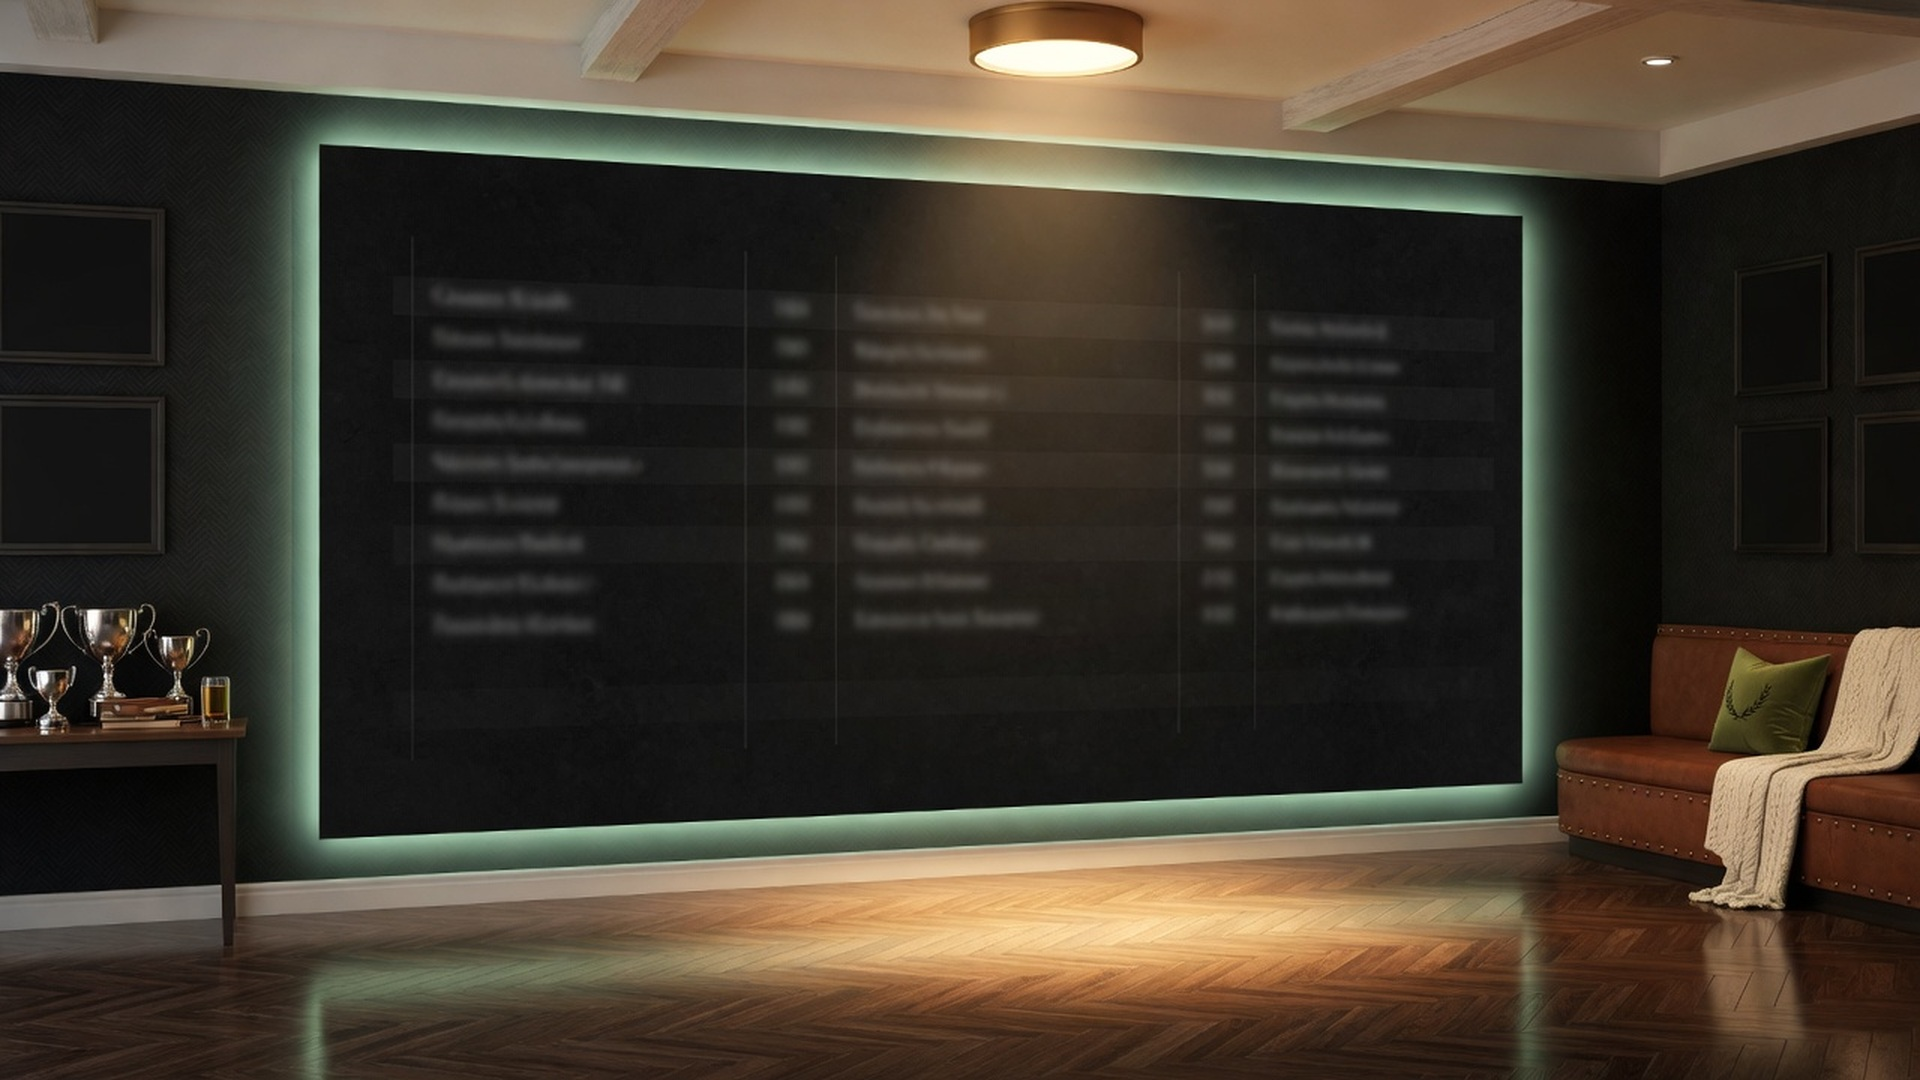
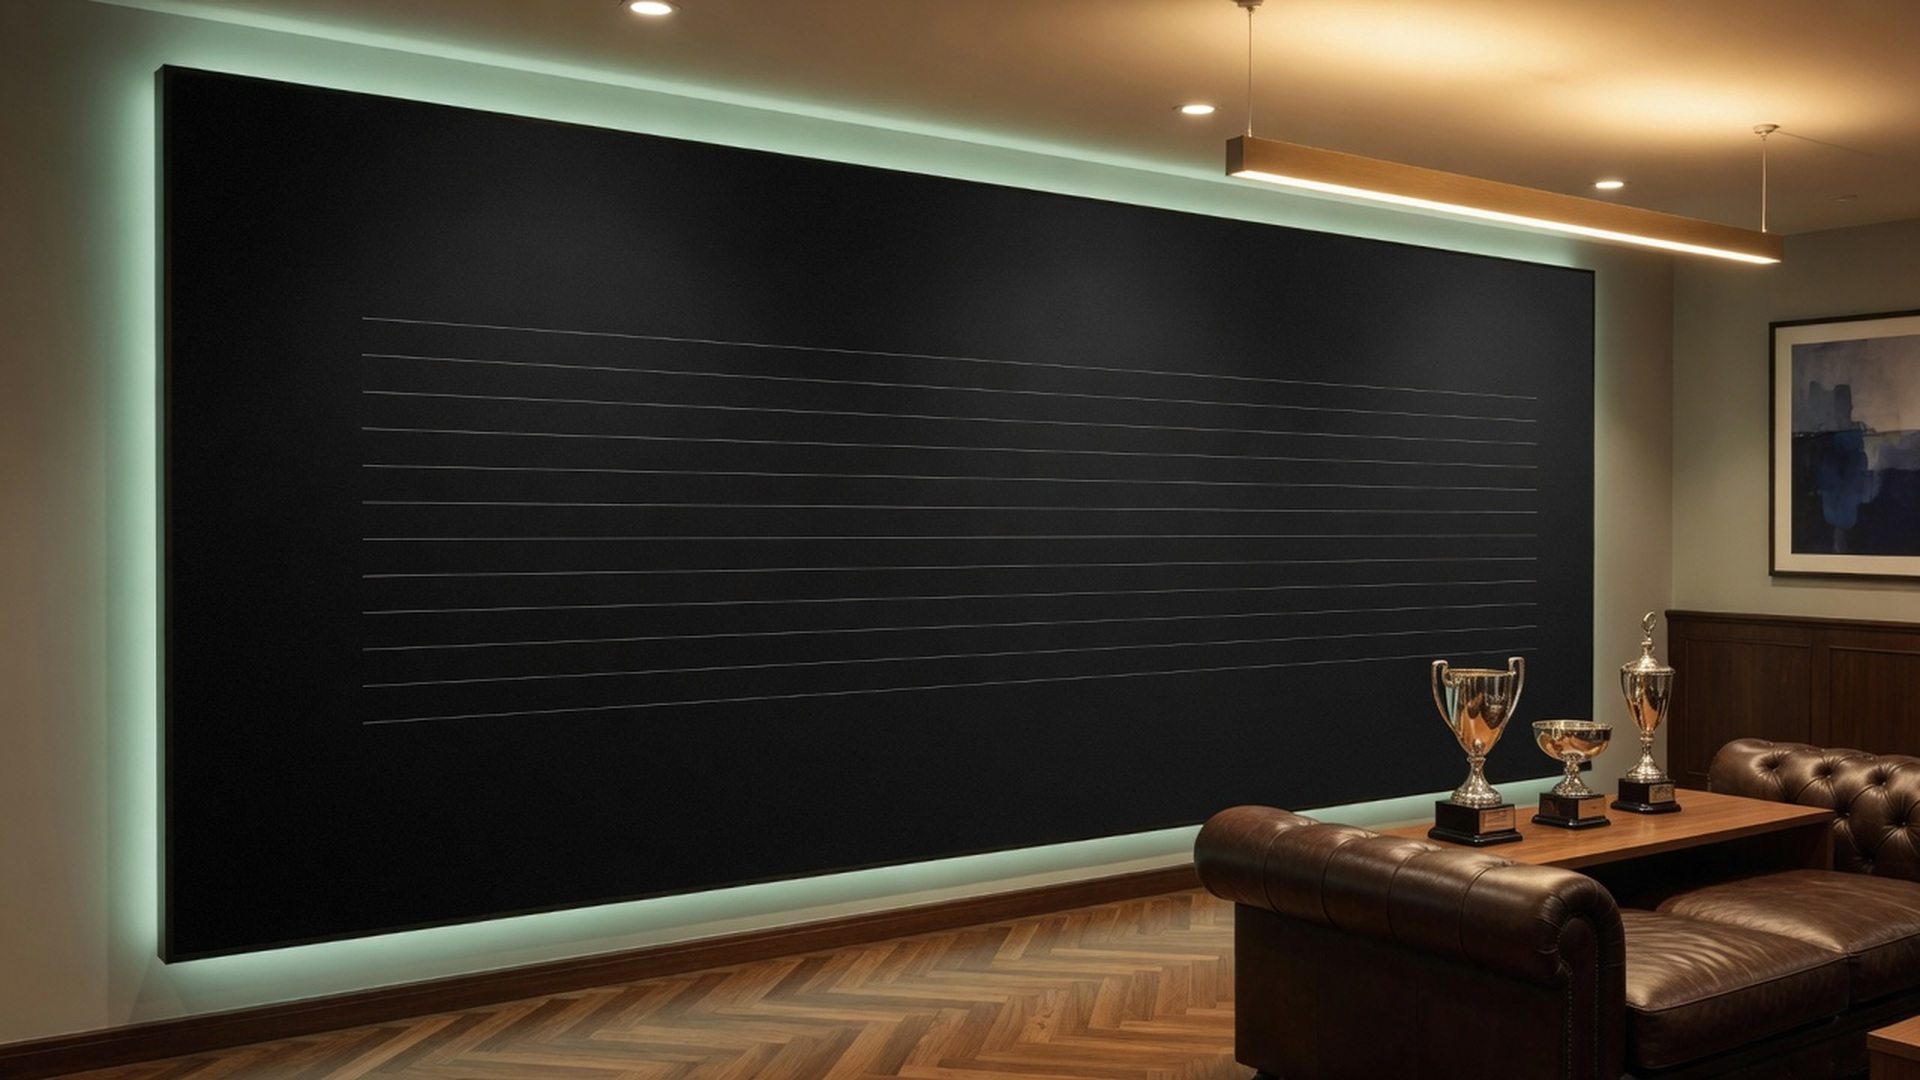
Hero polish: colorful home hero, legible overlay, cleaner leaderboard
- Home/About hero → the frog-in-glass-case with gavel (a bright,
  colorful focal point) instead of the murky vault door that read flat.
- Hero overlay darkened on the left so heading + body copy stay legible
  over any key art (the earlier lighter overlay let busy images bleed
  through behind text).
- Leaderboard hero → the trophy/gallery version, ending the ghosted
  fake-name text that showed behind 'Top Exterminators'; its empty state
  now uses the  coin (reads as a medal) instead of a blurry crop.

diff --git a/src/app/globals.css b/src/app/globals.css
@@ -349,16 +349,17 @@ h1, h2, h3, h4 {
   position: absolute;
   inset: 0;
   z-index: 1;
-  /* Text legibility without wiping out the key art on the right */
+  /* Keep the left (where copy sits) firmly legible on any art, while still
+     revealing the key art on the right. */
   background:
     linear-gradient(
       105deg,
-      oklch(0.12 0.008 270 / 0.88) 0%,
-      oklch(0.12 0.008 270 / 0.72) 32%,
-      oklch(0.12 0.008 270 / 0.35) 58%,
-      oklch(0.12 0.008 270 / 0.12) 100%
+      oklch(0.12 0.008 270 / 0.96) 0%,
+      oklch(0.12 0.008 270 / 0.88) 30%,
+      oklch(0.12 0.008 270 / 0.5) 60%,
+      oklch(0.12 0.008 270 / 0.15) 100%
     ),
-    linear-gradient(0deg, oklch(0.12 0.008 270 / 0.35) 0%, transparent 48%);
+    linear-gradient(0deg, oklch(0.12 0.008 270 / 0.4) 0%, transparent 46%);
 }
 .page-hero-frame {
   position: absolute;

diff --git a/src/app/leaderboard/page.tsx b/src/app/leaderboard/page.tsx
@@ -52,7 +52,7 @@ export default function LeaderboardPage() {
       <PageHero
         compact
         image="/art/art-leaderboard.jpg"
-        imagePosition="center 42%"
+        imagePosition="right 42%"
         kicker="The standings"
         badge="Updated live"
         title="Top"
@@ -108,7 +108,7 @@ export default function LeaderboardPage() {
         ) : rows.length === 0 ? (
           <div className="p-4">
             <EmptyState
-              image="/art/art-leaderboard.jpg"
+              image="/art/owp_pump.png"
               title={`No ${meta.label} entries yet`}
               hint="The podium is open — the first score takes it."
               action={
